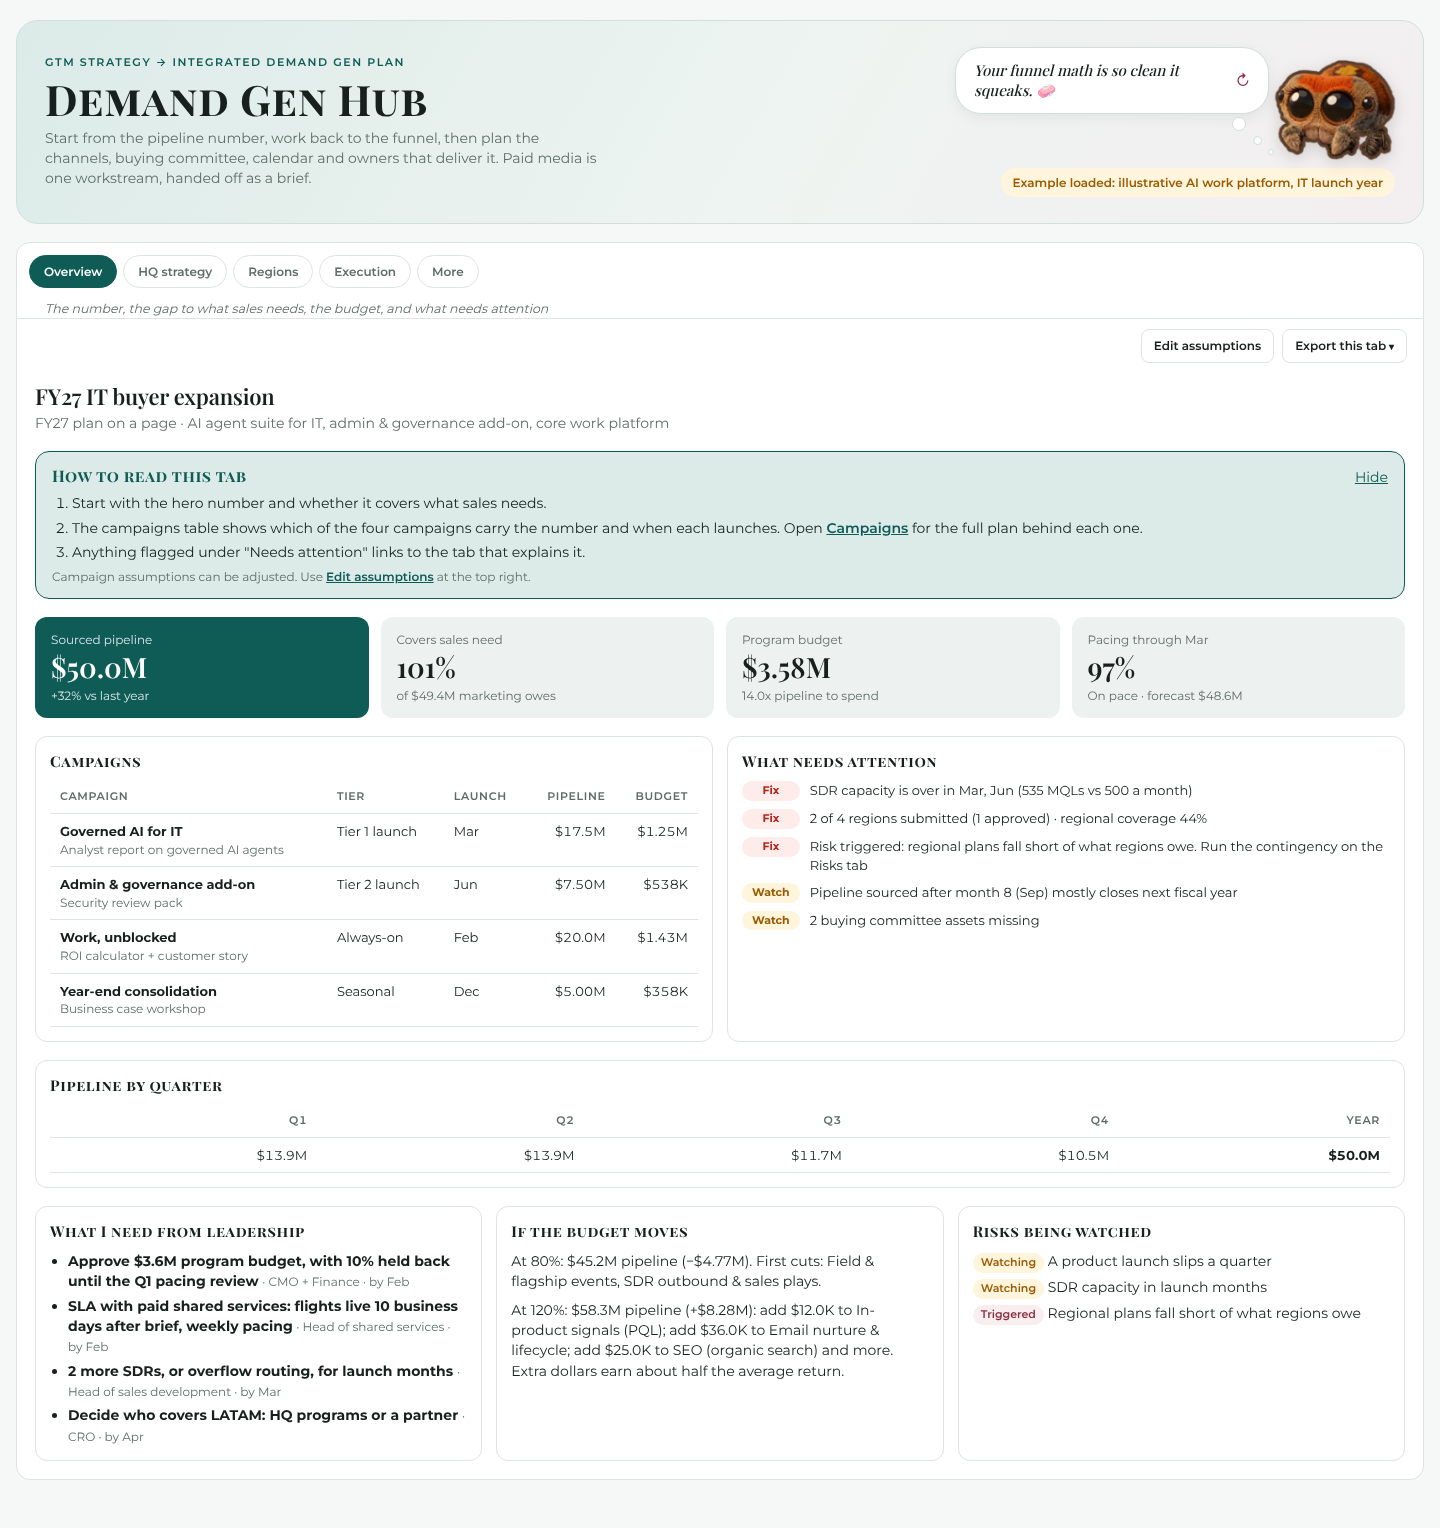
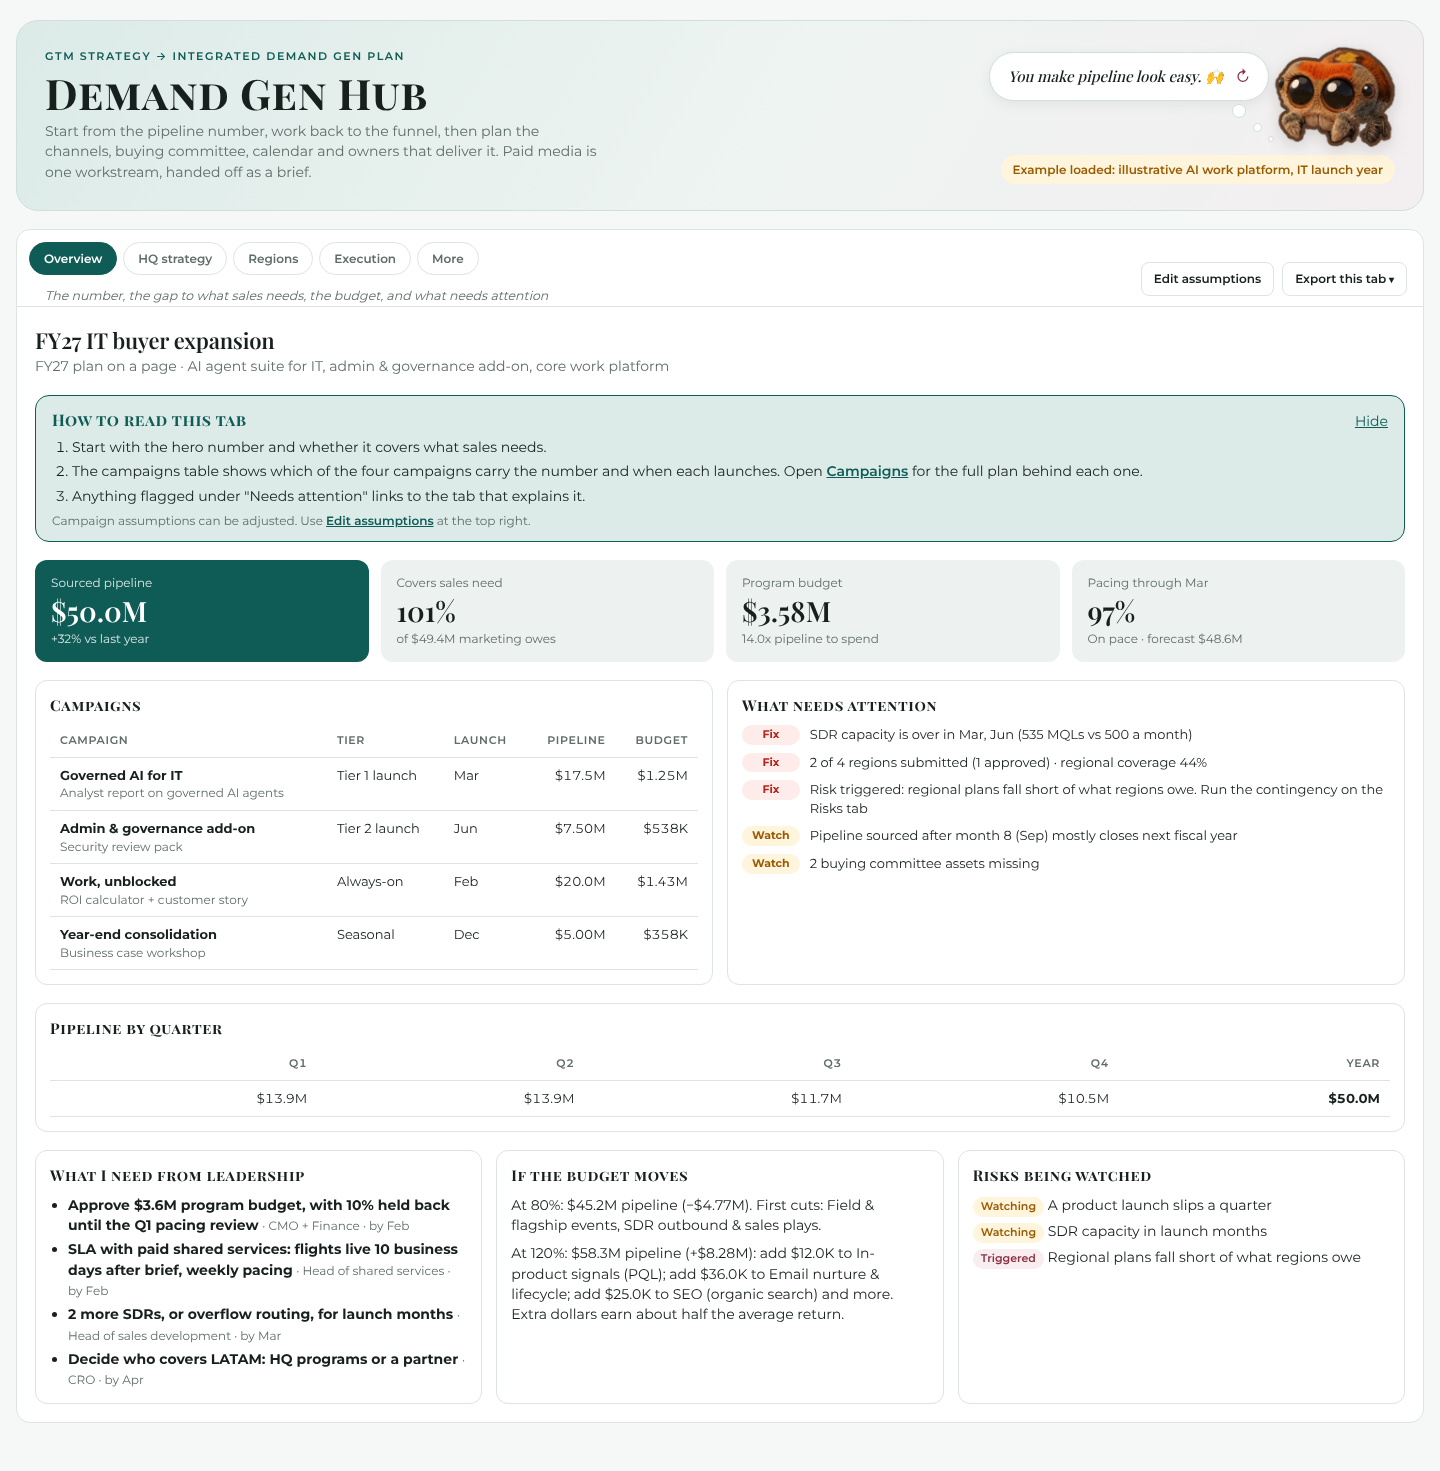
Move Edit assumptions and Export above the tab divider (#14)
Claude-Session: https://claude.ai/code/session_01UuN5R4RaULRNr1fy76jQPF

diff --git a/index.html b/index.html
@@ -177,6 +177,7 @@
     </aside>
 
     <section class="main" aria-label="Plan">
+      <div class="tabhead">
       <div class="tabs" role="tablist" id="tabs"></div>
       <div class="toolbar">
         <button class="btn" type="button" id="btn-edit" aria-pressed="false">Edit assumptions</button>
@@ -194,6 +195,7 @@
             <button type="button" role="menuitem" data-ex="doc">Download Word (.doc)<span>Opens in Word or Google Docs</span></button>
           </div>
         </details>
+      </div>
       </div>
       <div class="panel" id="panel"></div>
     <div id="upd-holder" hidden>

diff --git a/styles.css b/styles.css
@@ -372,3 +372,6 @@ details.more[open]>summary{margin-bottom:8px}
 .whybox > b + .mk + .note{margin-bottom:12px}
 .guide-min{align-self:flex-start;font-size:13px}
 .guide ol li .linkbtn,.guide .note .linkbtn{font-weight:600}
+.tabhead{display:flex;flex-wrap:wrap;align-items:flex-end;justify-content:space-between;gap:0 8px;border-bottom:1px solid var(--line)}
+.tabhead>.tabs{border-bottom:none;flex:1 1 420px;min-width:0;padding-bottom:10px}
+.tabhead>.toolbar{padding:8px 16px 10px;margin-left:auto}
